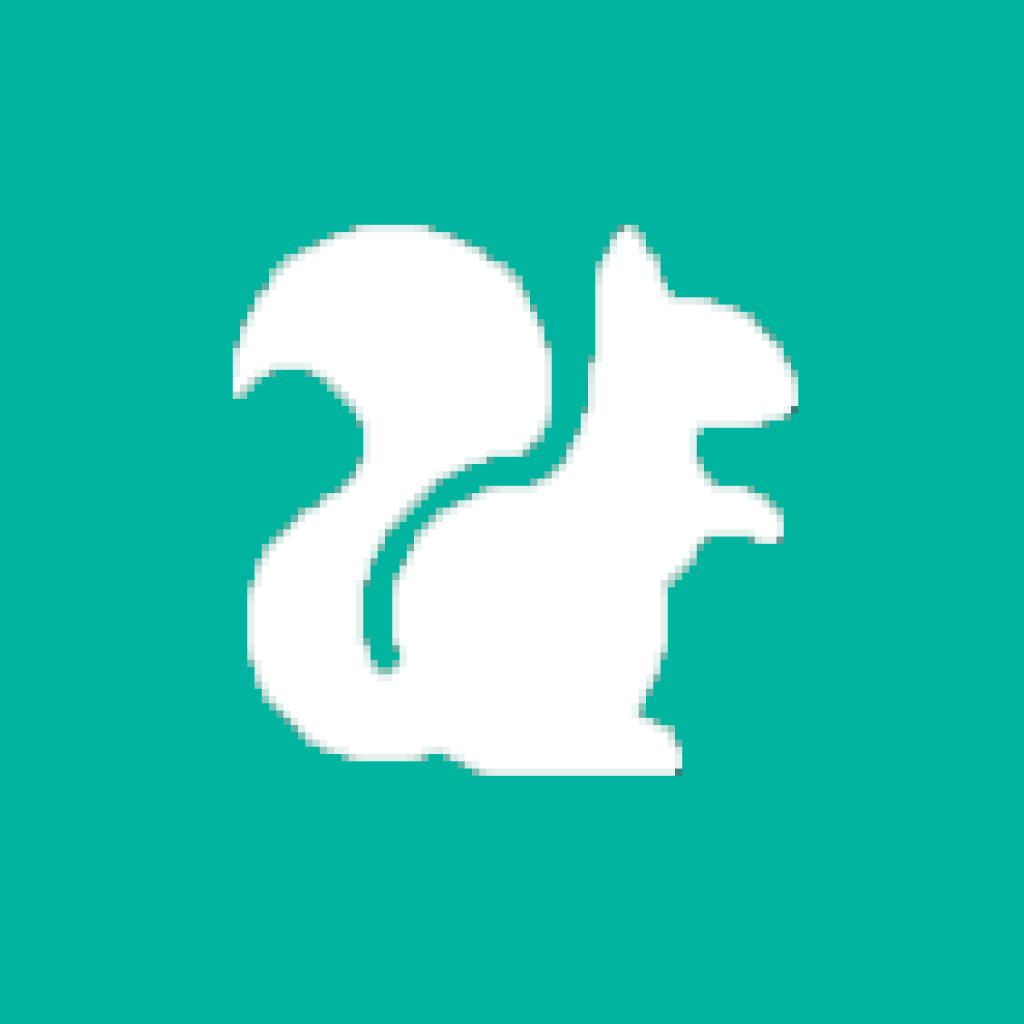
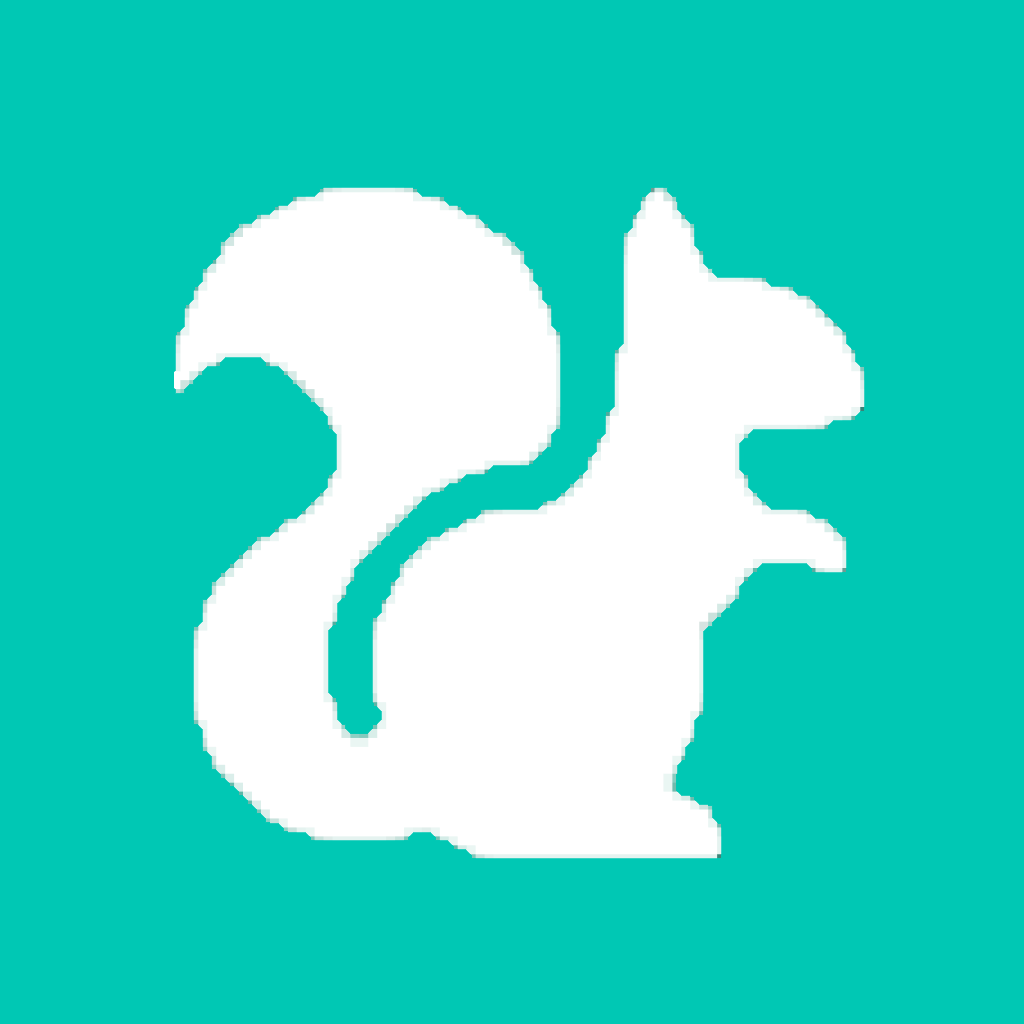
登録画面のUIを変更 登録時にリストが空になるバグを修正

Changed region(s): [[0.1562, 0.1562, 0.8438, 0.8438]]

diff --git a/lib/view/create/create_page.dart b/lib/view/create/create_page.dart
@@ -1,3 +1,4 @@
+import '../../constant/configs.dart' as configs;
 import '../../constant/texts.dart' as texts;
 import '../../importer.dart';
 
@@ -7,10 +8,15 @@ class CreatePage extends ConsumerWidget {
 
   @override
   Widget build(BuildContext context, WidgetRef ref) {
+    final isDark = ref.watch(darkModeProvider);
+
     return GestureDetector(
       onTap: () => FocusScope.of(context).unfocus(),
       child: Scaffold(
         appBar: AppBar(title: const Text(texts.createPage)),
+        backgroundColor: isDark
+            ? configs.darkBackgroundColor
+            : configs.settingsBackgroundColor,
         body: SingleChildScrollView(
           child: Row(
             children: [
@@ -18,32 +24,36 @@ class CreatePage extends ConsumerWidget {
               Expanded(
                 child: Column(
                   children: [
-                    SizedBox(height: 25.h),
-                    Row(
-                      crossAxisAlignment: CrossAxisAlignment.end,
-                      children: [
-                        Container(
-                          height: 70.w,
-                          width: 70.w,
-                          decoration: BoxDecoration(
-                            borderRadius:
-                                const BorderRadius.all(Radius.circular(10)),
-                            border: Border.all(color: Colors.grey),
+                    SizedBox(height: 20.h),
+                    const ItemsTitle(title: '基本情報'),
+                    Container(
+                      width: double.infinity,
+                      decoration: const BoxDecoration(
+                        borderRadius: BorderRadius.all(Radius.circular(10)),
+                        color: Colors.white,
+                      ),
+                      child: Row(
+                        children: [
+                          SizedBox(width: 15.w),
+                          const IconSelectButton(),
+                          SizedBox(width: 15.w),
+                          Expanded(
+                            child: Column(
+                              children: [
+                                const ServiceNameForm(),
+                                Container(
+                                  height: 1.h,
+                                  color: Colors.grey.shade300,
+                                ),
+                                const PriceForm(),
+                              ],
+                            ),
                           ),
-                          child: const Icon(
-                            Icons.add,
-                            size: 35,
-                          ),
-                        ),
-                        SizedBox(width: 20.w),
-                        const Expanded(child: ServiceNameForm()),
-                      ],
+                        ],
+                      ),
                     ),
-                    SizedBox(height: 25.h),
-                    const PriceForm(),
-                    SizedBox(height: 50.h),
+                    SizedBox(height: 30.h),
                     const RegisterButton(),
-                    SizedBox(height: 50.h),
                   ],
                 ),
               ),

diff --git a/lib/view/create/widget/price_form.dart b/lib/view/create/widget/price_form.dart
@@ -1,3 +1,4 @@
+import '../../../constant/configs.dart' as configs;
 import '../../../importer.dart';
 
 /// 料金フォームを表示する
@@ -6,41 +7,21 @@ class PriceForm extends ConsumerWidget {
 
   @override
   Widget build(BuildContext context, WidgetRef ref) {
-    return Column(
-      crossAxisAlignment: CrossAxisAlignment.start,
-      children: [
-        Row(
-          children: [
-            SizedBox(width: 10.w),
-            const Text(
-              '料金',
-              style: TextStyle(fontWeight: FontWeight.bold),
-            ),
-            const Text(
-              '*',
-              style: TextStyle(
-                fontWeight: FontWeight.bold,
-                color: Colors.red,
-              ),
-            ),
-          ],
-        ),
-        SizedBox(height: 5.h),
-        TextField(
-          keyboardType: TextInputType.number,
-          decoration: InputDecoration(
-            isDense: true,
-            filled: true,
-            fillColor: Colors.grey.shade200,
-            border: const OutlineInputBorder(
-              borderSide: BorderSide.none,
-            ),
-          ),
-          onChanged: (value) {
-            ref.watch(priceProvider.notifier).state = value;
-          },
-        ),
-      ],
+    return TextField(
+      cursorColor: configs.appColor,
+      inputFormatters: [FilteringTextInputFormatter.digitsOnly],
+      keyboardType: TextInputType.number,
+      decoration: InputDecoration(
+        hintText: '料金',
+        hintStyle: TextStyle(fontSize: 14.sp),
+        isDense: true,
+        filled: true,
+        fillColor: Colors.white,
+        border: const OutlineInputBorder(borderSide: BorderSide.none),
+      ),
+      onChanged: (value) {
+        ref.watch(priceProvider.notifier).state = value;
+      },
     );
   }
 }

diff --git a/lib/view/create/widget/service_name_form.dart b/lib/view/create/widget/service_name_form.dart
@@ -1,3 +1,4 @@
+import '../../../constant/configs.dart' as configs;
 import '../../../importer.dart';
 
 /// サービス名フォームを表示する
@@ -6,42 +7,19 @@ class ServiceNameForm extends ConsumerWidget {
 
   @override
   Widget build(BuildContext context, WidgetRef ref) {
-    return Column(
-      crossAxisAlignment: CrossAxisAlignment.start,
-      children: [
-        Row(
-          children: [
-            SizedBox(width: 10.w),
-            const Text(
-              'サービス名',
-              style: TextStyle(fontWeight: FontWeight.bold),
-            ),
-            const Text(
-              '*',
-              style: TextStyle(
-                fontWeight: FontWeight.bold,
-                color: Colors.red,
-              ),
-            ),
-          ],
-        ),
-        SizedBox(height: 5.h),
-        SizedBox(
-          child: TextField(
-            decoration: InputDecoration(
-              isDense: true,
-              filled: true,
-              fillColor: Colors.grey.shade200,
-              border: const OutlineInputBorder(
-                borderSide: BorderSide.none,
-              ),
-            ),
-            onChanged: (value) {
-              ref.watch(serviceNameProvider.notifier).state = value;
-            },
-          ),
-        ),
-      ],
+    return TextField(
+      cursorColor: configs.appColor,
+      decoration: InputDecoration(
+        hintText: 'サービス名',
+        hintStyle: TextStyle(fontSize: 14.sp),
+        isDense: true,
+        filled: true,
+        fillColor: Colors.white,
+        border: const OutlineInputBorder(borderSide: BorderSide.none),
+      ),
+      onChanged: (value) {
+        ref.watch(serviceNameProvider.notifier).state = value;
+      },
     );
   }
 }

diff --git a/lib/view/list/widget/create_page_button.dart b/lib/view/list/widget/create_page_button.dart
@@ -1,5 +1,3 @@
-import 'package:subrisu/view/create/create_page.dart';
-
 import '../../../importer.dart';
 
 /// 作成画面に遷移するボタン
@@ -13,21 +11,17 @@ class CreatePageButton extends StatelessWidget {
     return FloatingActionButton(
       onPressed: () {
         Navigator.push(
-            context,
-            MaterialPageRoute(
-              builder: (context) => const CreatePage(),
-              //以下を追加
-              fullscreenDialog: true,
-            ));
-
-        // showModalBottomSheet(
-        //   backgroundColor: Colors.transparent,
-        //   isScrollControlled: true,
-        //   context: context,
-        //   builder: (_) => const CreatePage(),
-        // );
+          context,
+          MaterialPageRoute(
+            builder: (_) => const CreatePage(),
+            fullscreenDialog: true,
+          ),
+        );
       },
-      child: const Icon(Icons.add),
+      child: const Icon(
+        Icons.add,
+        size: 30,
+      ),
     );
   }
 }

diff --git a/lib/view/list/widget/subscription_item.dart b/lib/view/list/widget/subscription_item.dart
@@ -13,7 +13,7 @@ class SubscriptionItem extends ConsumerWidget {
   @override
   Widget build(BuildContext context, WidgetRef ref) {
     return Container(
-      height: 60.h,
+      height: 55.h,
       width: double.infinity,
       decoration: const BoxDecoration(
         borderRadius: BorderRadius.all(Radius.circular(10)),
@@ -65,7 +65,7 @@ class SubscriptionItem extends ConsumerWidget {
       serviceName,
       style: TextStyle(
         fontSize: 16.sp,
-        fontWeight: FontWeight.w500,
+        fontWeight: FontWeight.w600,
       ),
     );
   }
@@ -79,7 +79,7 @@ class SubscriptionItem extends ConsumerWidget {
       text,
       style: TextStyle(
         fontSize: 16.sp,
-        fontWeight: FontWeight.w500,
+        fontWeight: FontWeight.w600,
       ),
     );
   }

diff --git a/lib/importer.dart b/lib/importer.dart
@@ -17,6 +17,7 @@ export 'package:freezed_annotation/freezed_annotation.dart';
 export 'package:cloud_firestore/cloud_firestore.dart';
 export 'package:flutter_localizations/flutter_localizations.dart';
 export 'package:google_mobile_ads/google_mobile_ads.dart';
+export 'package:dotted_border/dotted_border.dart';
 
 // app
 export 'package:subrisu/app.dart';
@@ -74,3 +75,5 @@ export 'package:subrisu/view/create/widget/register_button.dart';
 export 'package:subrisu/view/create/widget/service_name_form.dart';
 export 'package:subrisu/view/list/widget/subscription_item.dart';
 export 'package:subrisu/view/list/widget/subscription_list.dart';
+export 'package:subrisu/view/create/create_page.dart';
+export 'package:subrisu/view/create/widget/icon_select_button.dart';

diff --git a/lib/view/create/widget/register_button.dart b/lib/view/create/widget/register_button.dart
@@ -9,6 +9,9 @@ class RegisterButton extends ConsumerWidget {
 
   @override
   Widget build(BuildContext context, WidgetRef ref) {
+    final serviceName = ref.watch(serviceNameProvider);
+    final price = ref.watch(priceProvider);
+
     return Container(
       height: 40.h,
       width: double.infinity,
@@ -19,7 +22,9 @@ class RegisterButton extends ConsumerWidget {
         borderRadius: const BorderRadius.all(Radius.circular(30)),
         padding: EdgeInsets.zero,
         color: configs.appColor,
-        onPressed: () async => await _onPressed(context, ref),
+        onPressed: serviceName == '' || price == ''
+            ? null
+            : () async => await _onPressed(context, ref),
         child: _text(),
       ),
     );

diff --git a/lib/view/create/widget/icon_select_button.dart b/lib/view/create/widget/icon_select_button.dart
@@ -1,0 +1,24 @@
+import '../../../constant/configs.dart' as configs;
+import '../../../importer.dart';
+
+/// アイコン画像選択ダイアログを呼び出すボタン
+class IconSelectButton extends StatelessWidget {
+  const IconSelectButton({Key? key}) : super(key: key);
+
+  @override
+  Widget build(BuildContext context) {
+    return DottedBorder(
+      color: configs.appColor,
+      borderType: BorderType.Circle,
+      dashPattern: const [8, 4],
+      child: SizedBox(
+        height: 55.h,
+        width: 55.h,
+        child: const Icon(
+          Icons.add,
+          color: configs.appColor,
+        ),
+      ),
+    );
+  }
+}

diff --git a/lib/provider/providers.dart b/lib/provider/providers.dart
@@ -10,9 +10,9 @@ final darkModeProvider = StateProvider((ref) => false);
 
 final isUserDataLoadedProvider = StateProvider((ref) => false);
 
-final serviceNameProvider = StateProvider((ref) => '');
+final serviceNameProvider = StateProvider.autoDispose((ref) => '');
 
-final priceProvider = StateProvider((ref) => '');
+final priceProvider = StateProvider.autoDispose((ref) => '');
 
 final userViewModelProvider = StateNotifierProvider<UserViewModel, UserState>(
     (ref) => UserViewModel(UserRepositoryImpl(), ref));

diff --git a/lib/view_model/subscription_view_model.dart b/lib/view_model/subscription_view_model.dart
@@ -22,8 +22,8 @@ class SubscriptionViewModel extends StateNotifier<List<QueryDocumentSnapshot>> {
 
   Future<void> create() async {
     final userId = ref.watch(userViewModelProvider).userId;
-    final serviceName = ref.watch(serviceNameProvider);
-    final price = ref.watch(priceProvider);
+    final serviceName = ref.read(serviceNameProvider);
+    final price = ref.read(priceProvider);
 
     try {
       // SubscriptionDataを作成

diff --git a/lib/view/list/widget/subscription_list.dart b/lib/view/list/widget/subscription_list.dart
@@ -17,7 +17,8 @@ class SubscriptionList extends ConsumerWidget {
           children: [
             if (index == 0) SizedBox(height: 20.h),
             SubscriptionItem(subscriptionDoc: subscriptionDocList[index]),
-            SizedBox(height: 20.h),
+            SizedBox(height: 15.h),
+            if (index == subscriptionDocList.length - 1) SizedBox(height: 50.h),
           ],
         );
       },

diff --git a/lib/constant/configs.dart b/lib/constant/configs.dart
@@ -13,7 +13,7 @@ const androidReleaseAdId = '';
 const androidDebugAdId = 'ca-app-pub-3940256099942544/6300978111';
 
 // アプリカラー
-const appColor = Color.fromARGB(255, 0, 180, 160);
+const appColor = Color.fromARGB(255, 0, 200, 180);
 
 // ダークモード時の背景色
 const darkBackgroundColor = Color(0xFF212121);
